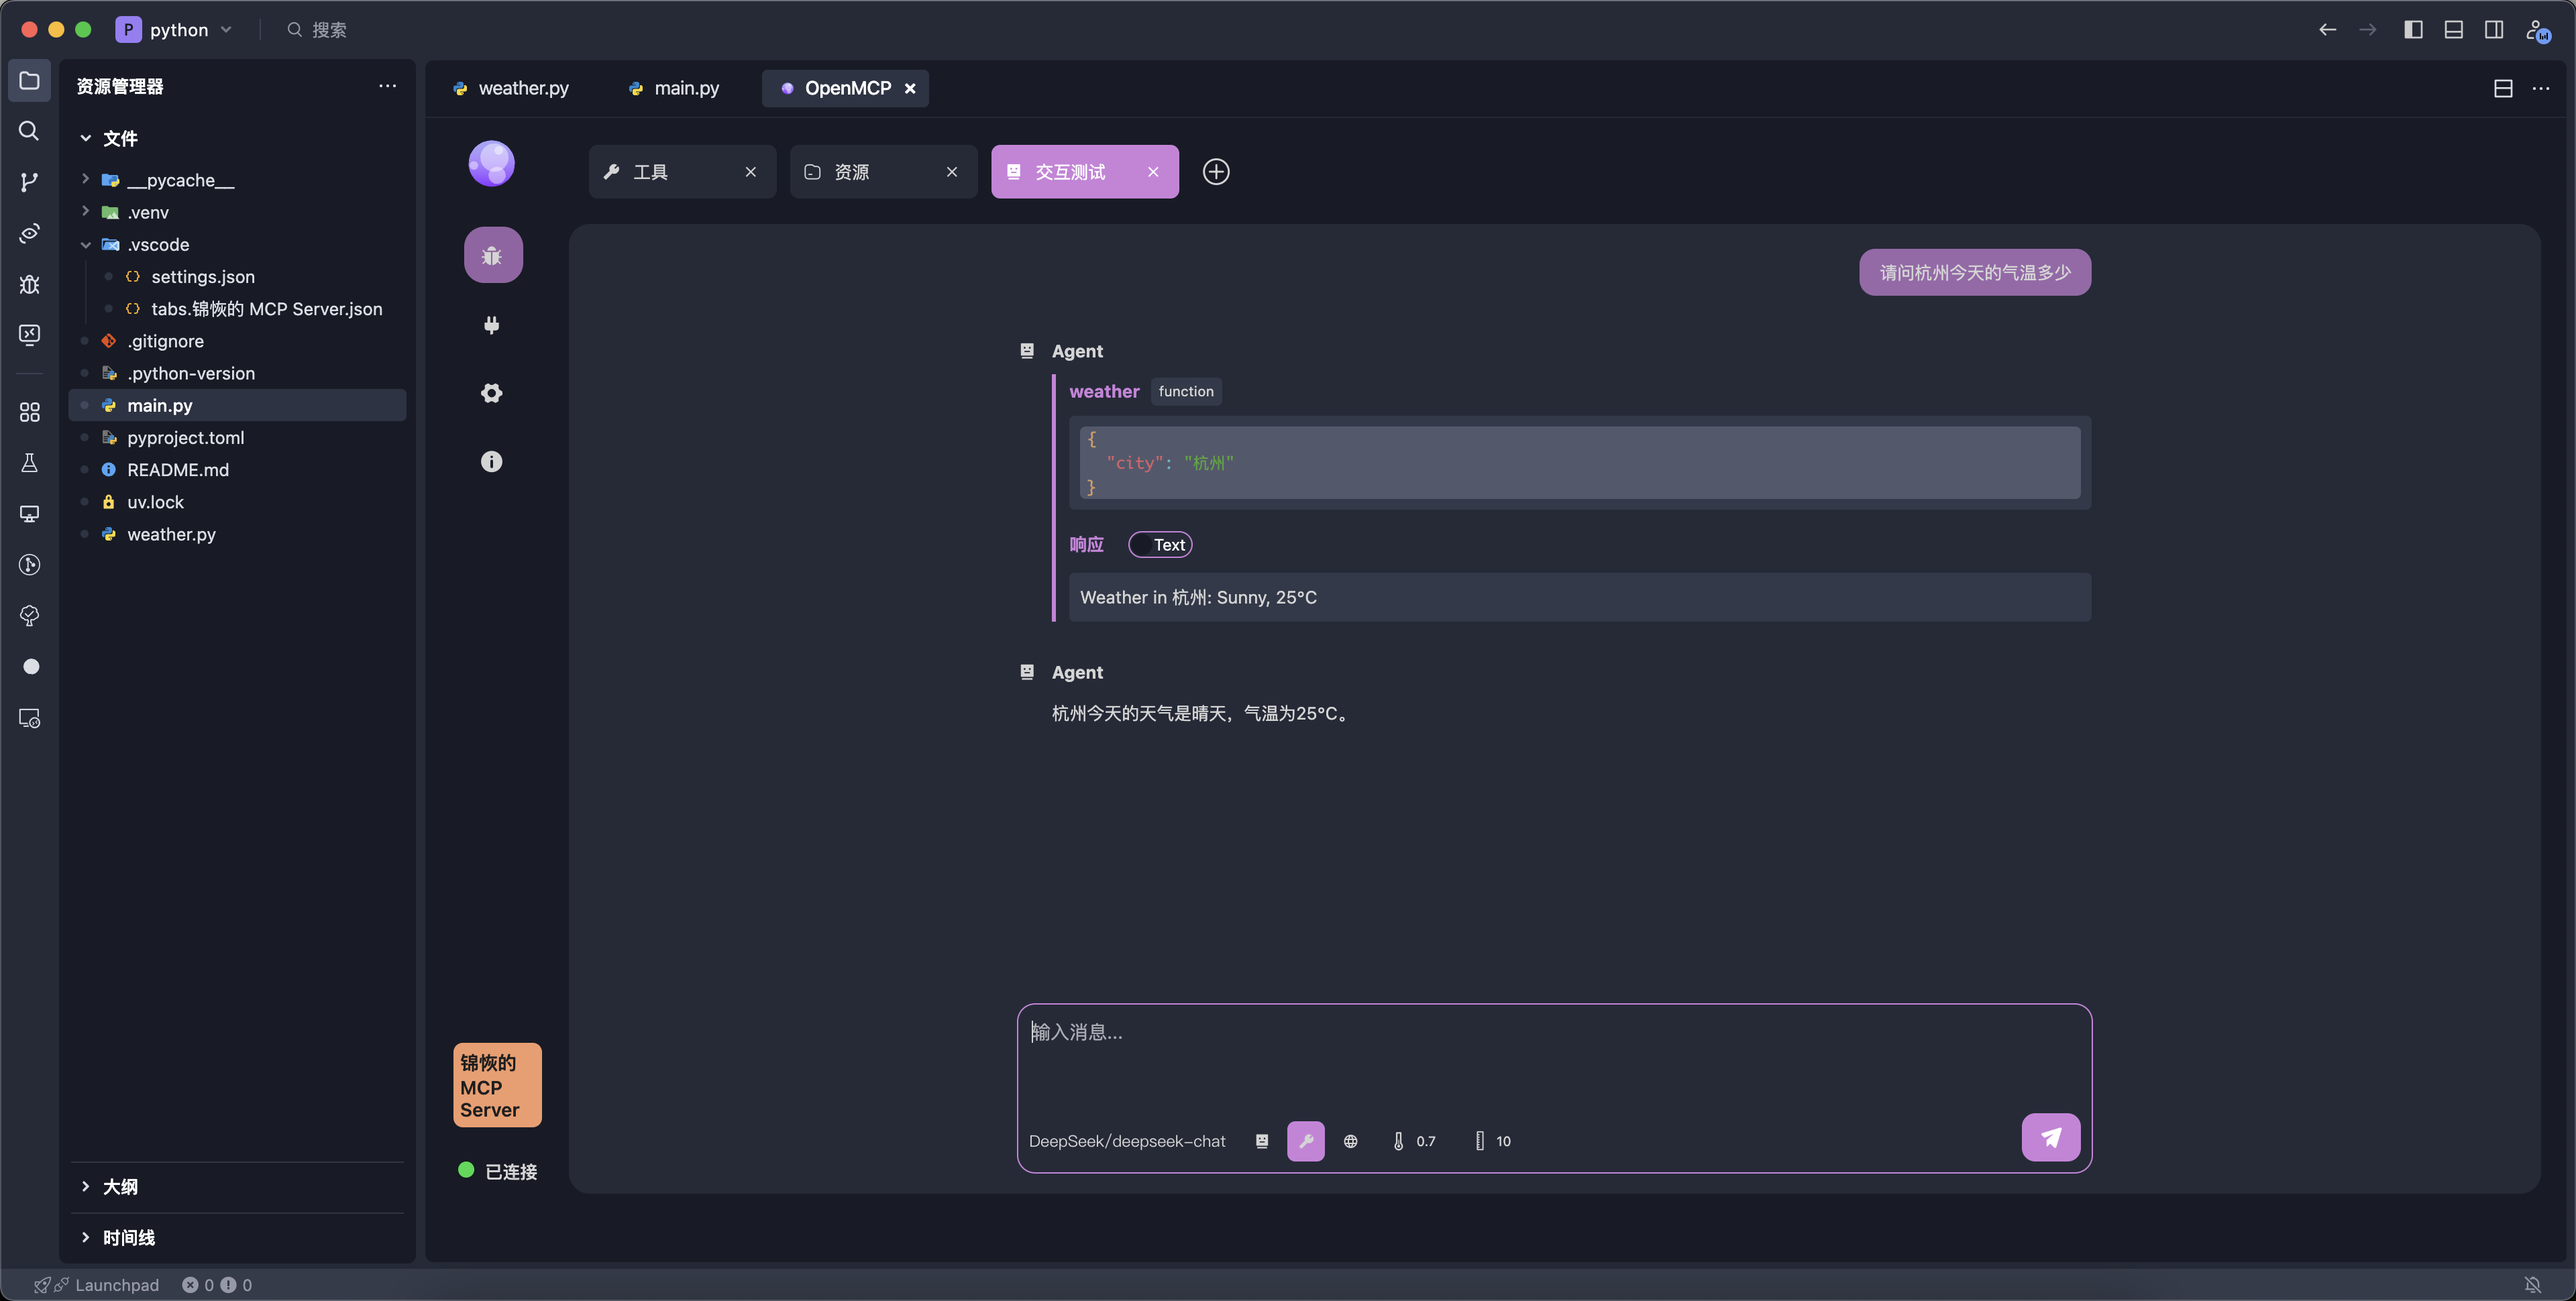
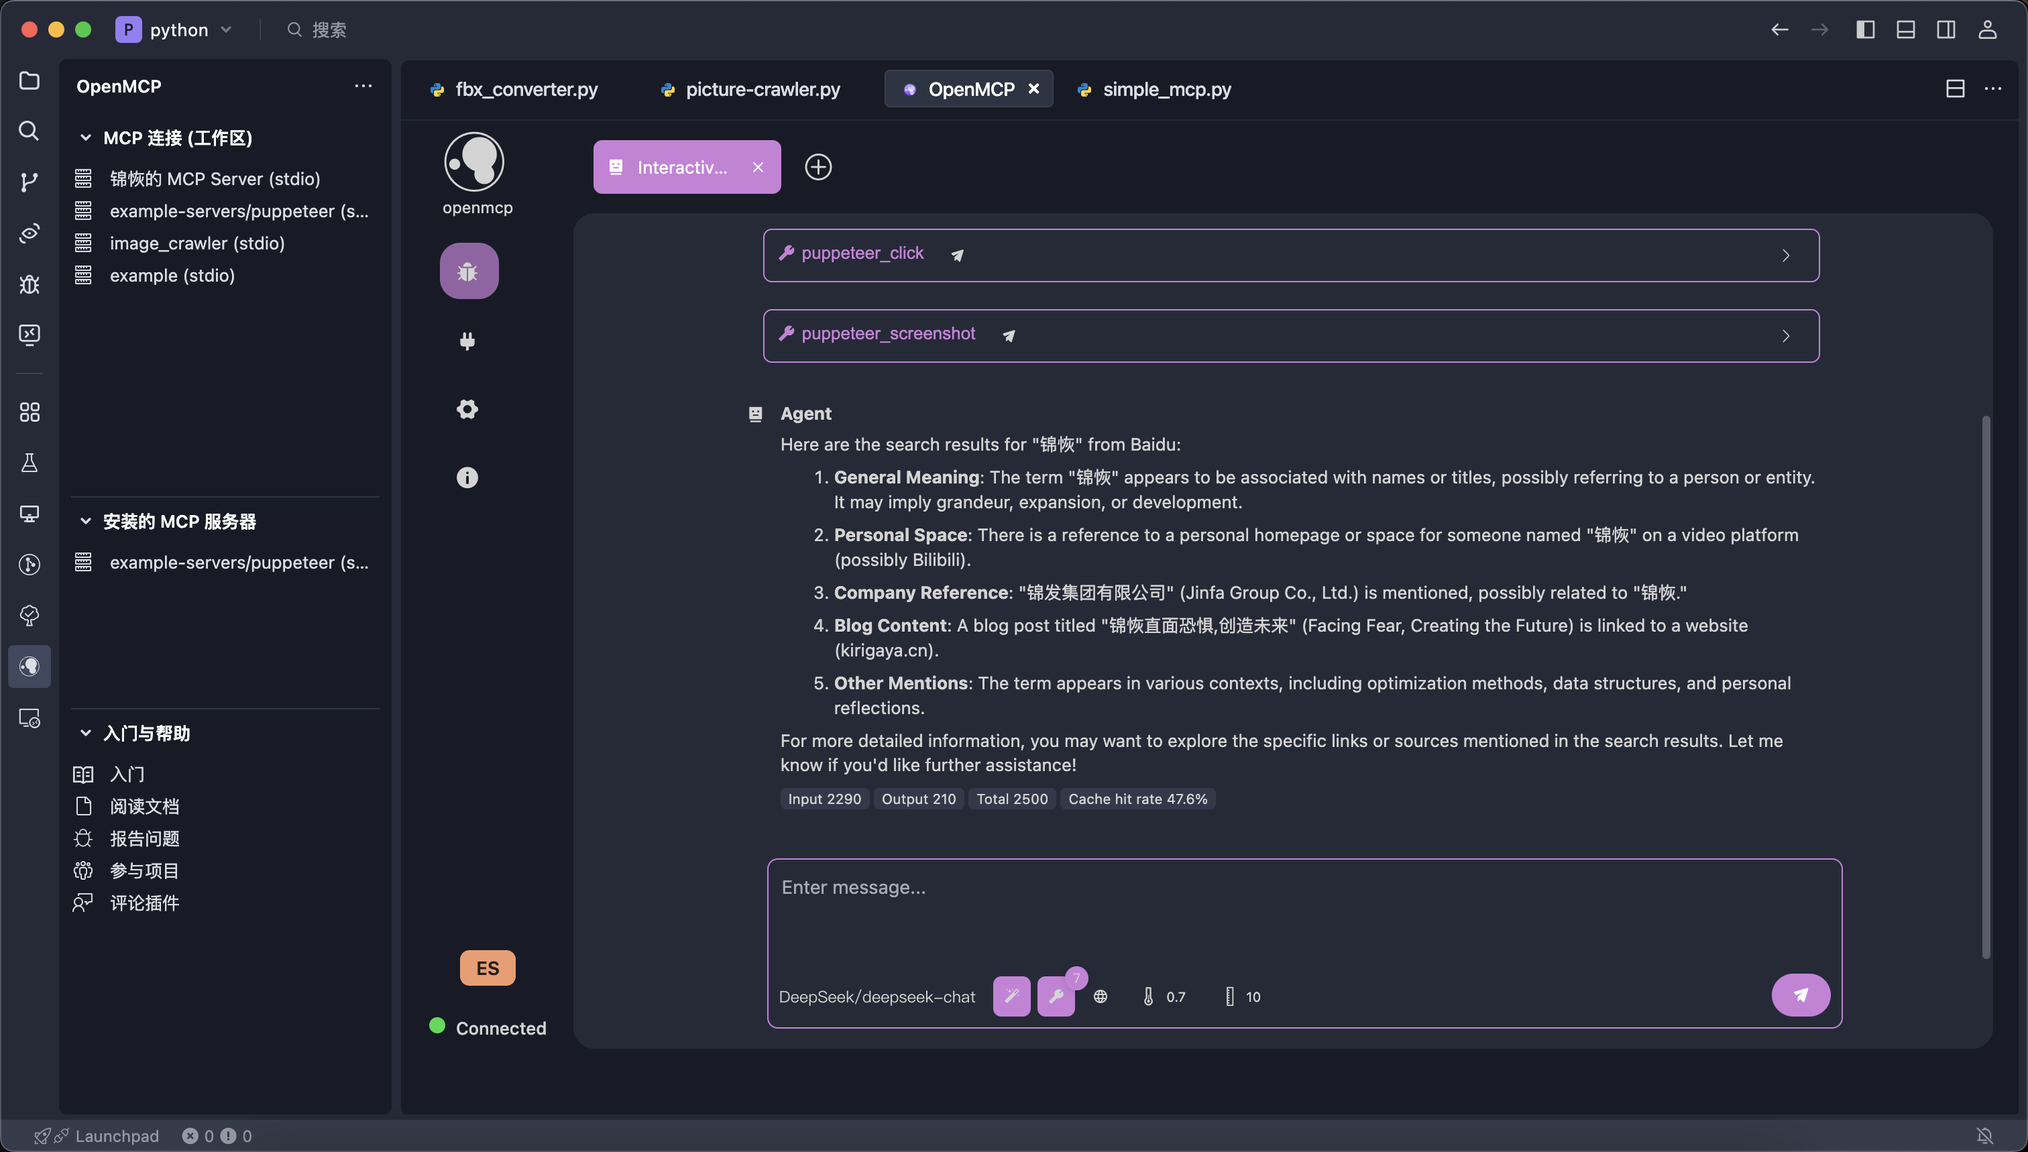
update

diff --git a/README.md b/README.md
@@ -14,8 +14,6 @@
 
 一款用于 MCP 服务端调试的一体化 vscode/trae/cursor 插件。
 
-<video src="https://github.com/LSTM-Kirigaya/mcp-server-template/raw/refs/heads/main/video/introduction.mp4"></video>
-
 集成 Inspector + MCP 客户端基础功能，开发测试一体化。
 
 ![](./icons/openmcp.welcome.png)
@@ -27,6 +25,10 @@
 测试完成的工具可以放入 「交互测试」 模块之间进行大模型交互测试。
 
 ![](./icons/openmcp.chatbot.png)
+
+完整的项目级管理面板，更加方便的进行项目和全局的 mcp 项目管理。
+
+![](./icons/openmcp.management.png)
 
 支持多种大模型
 
